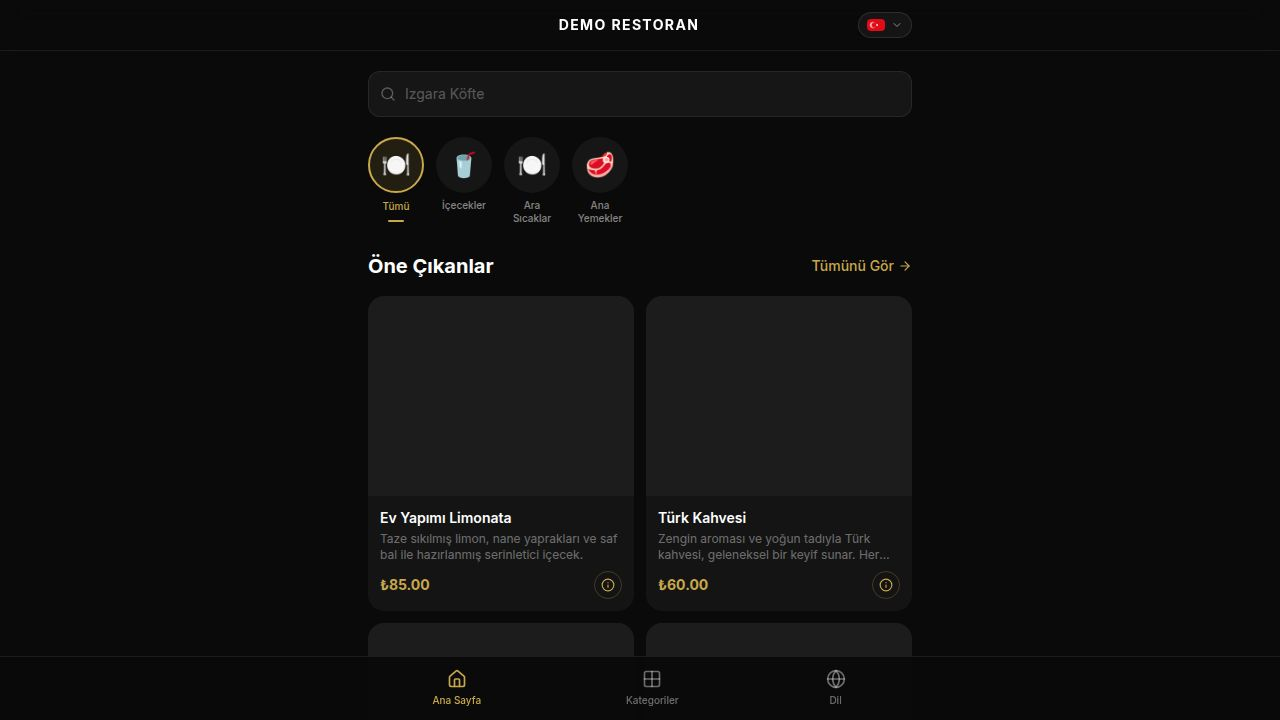
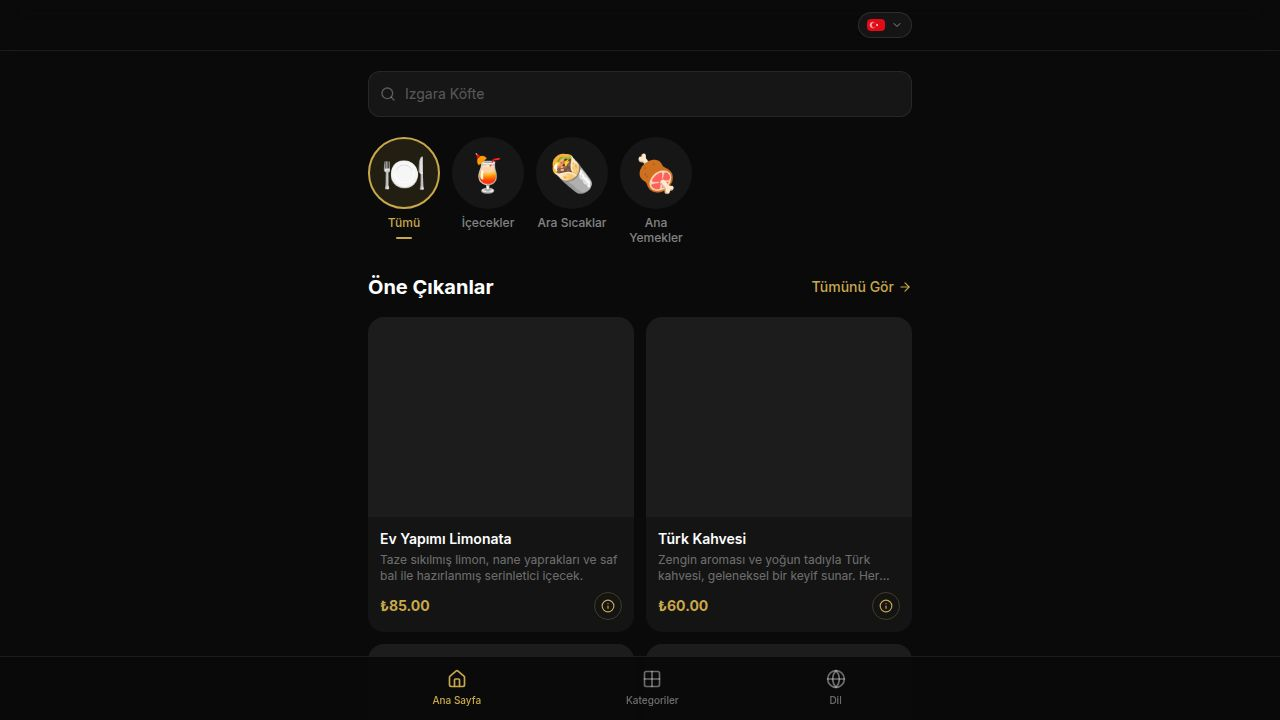
Improve home page category display and clean up language selection
Update category icons and text sizes on the home page, and remove decorative elements from the language selection page.

Replit-Commit-Author: Agent
Replit-Commit-Session-Id: a39f3060-0809-45cd-80fb-3431aca46147
Replit-Commit-Checkpoint-Type: full_checkpoint
Replit-Commit-Event-Id: d89410b4-7f45-45c4-94e8-684ce49e8521
Replit-Commit-Screenshot-Url: https://storage.googleapis.com/screenshot-production-us-central1/9b62f486-67d0-4ea3-8fc8-8f5becd2f9ff/a39f3060-0809-45cd-80fb-3431aca46147/rqiIkQV
Replit-Helium-Checkpoint-Created: true

diff --git a/artifacts/qr-menu/src/pages/menu/language-page.tsx b/artifacts/qr-menu/src/pages/menu/language-page.tsx
@@ -83,19 +83,6 @@ export default function LanguagePage() {
         </div>
       </div>
 
-      <div className="absolute bottom-24 right-0 w-48 h-48 pointer-events-none select-none opacity-20">
-        <svg viewBox="0 0 200 200" fill="none" xmlns="http://www.w3.org/2000/svg">
-          <path d="M180 180 Q140 120 80 80 Q40 50 10 10" stroke="#C9A84C" strokeWidth="1.5" strokeLinecap="round" fill="none"/>
-          <path d="M120 180 Q110 140 90 100 Q70 60 50 20" stroke="#C9A84C" strokeWidth="1" strokeLinecap="round" fill="none"/>
-          <path d="M80 80 Q100 90 110 70 Q120 50 100 40" stroke="#C9A84C" strokeWidth="1" fill="none"/>
-          <path d="M80 80 Q60 100 70 120 Q80 130 100 110" stroke="#C9A84C" strokeWidth="1" fill="none"/>
-          <path d="M120 130 Q140 120 150 100 Q160 80 140 70" stroke="#C9A84C" strokeWidth="1" fill="none"/>
-          <circle cx="175" cy="155" r="8" stroke="#C9A84C" strokeWidth="1.5" fill="none"/>
-          <circle cx="160" cy="170" r="5" stroke="#C9A84C" strokeWidth="1" fill="none"/>
-          <path d="M160 30 Q150 20 155 10 Q165 5 170 15 Q175 5 185 10 Q190 20 180 30 Q170 35 160 30Z" stroke="#C9A84C" strokeWidth="1" fill="none"/>
-        </svg>
-      </div>
-
       <BottomNav />
     </div>
     </PageTransition>

diff --git a/artifacts/qr-menu/src/pages/menu/home-page.tsx b/artifacts/qr-menu/src/pages/menu/home-page.tsx
@@ -169,7 +169,7 @@ export default function HomePage() {
             className="flex flex-col items-center gap-1.5 flex-shrink-0"
           >
             <div
-              className="w-14 h-14 rounded-full flex items-center justify-center text-2xl transition-all"
+              className="w-[72px] h-[72px] rounded-full flex items-center justify-center text-4xl transition-all"
               style={{
                 background: activeSlug === "all" ? `${accent}22` : "rgba(255,255,255,0.05)",
                 border: activeSlug === "all" ? `2px solid ${accent}` : "2px solid transparent",
@@ -178,7 +178,7 @@ export default function HomePage() {
               🍽️
             </div>
             <span
-              className="text-[10px] font-medium"
+              className="text-xs font-medium"
               style={{ color: activeSlug === "all" ? accent : "rgba(255,255,255,0.5)" }}
             >
               {tr.all}
@@ -197,7 +197,7 @@ export default function HomePage() {
               className="flex flex-col items-center gap-1.5 flex-shrink-0"
             >
               <div
-                className="w-14 h-14 rounded-full flex items-center justify-center text-2xl transition-all"
+                className="w-[72px] h-[72px] rounded-full flex items-center justify-center text-4xl transition-all"
                 style={{
                   background: activeSlug === cat.slug ? `${accent}22` : "rgba(255,255,255,0.05)",
                   border: activeSlug === cat.slug ? `2px solid ${accent}` : "2px solid transparent",
@@ -206,7 +206,7 @@ export default function HomePage() {
                 {cat.emoji || getCategoryIcon(cat.slug)}
               </div>
               <span
-                className="text-[10px] font-medium text-center max-w-[56px] leading-tight"
+                className="text-xs font-medium text-center max-w-[72px] leading-tight"
                 style={{ color: activeSlug === cat.slug ? accent : "rgba(255,255,255,0.5)" }}
               >
                 {cat.name}